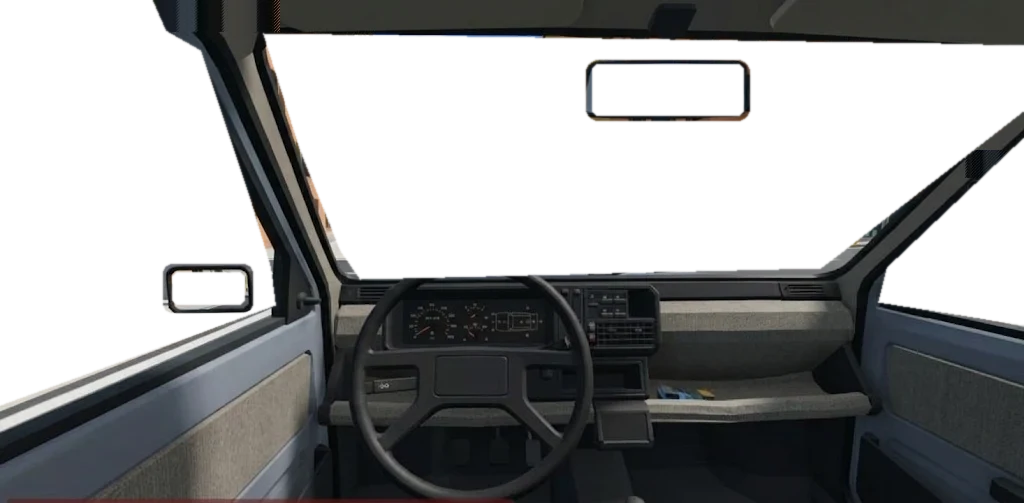
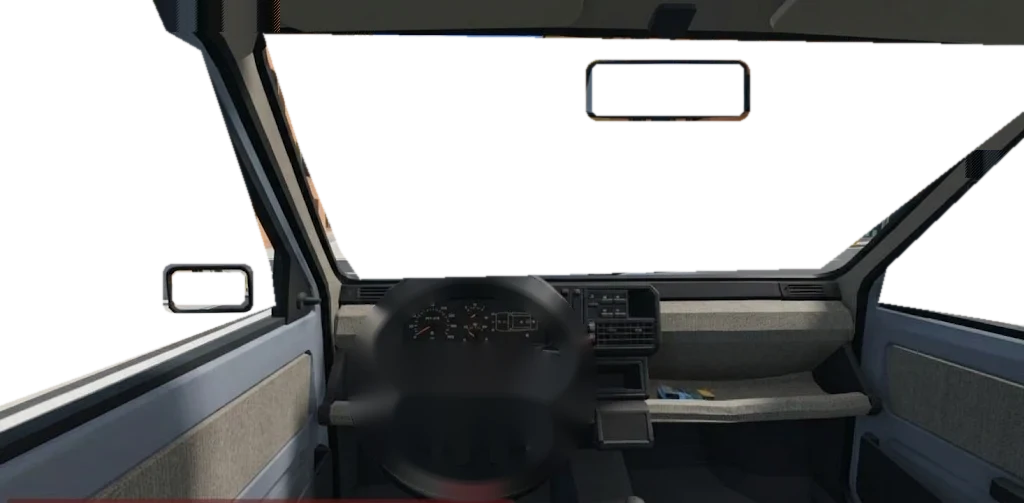
Abitacoli fotografici anche per Grand Wagoneer, taxi, Challenger e ZIL; volante ritagliato dalle immagini che gira nel suo piano con lo sterzo (tutte e 6 le auto)
Claude-Session: https://claude.ai/code/session_01W8iG7LND3boGmKpCt1qQnk

Changed region(s): [[0.3438, 0.7455, 0.5625, 0.9841], [0.3438, 0.5368, 0.5938, 0.7753]]

diff --git a/index.html b/index.html
@@ -146,7 +146,7 @@
   body.mob #navBox{top:54px!important;font-size:14px!important;padding:5px 12px!important}
   body.mob #cashHud{top:auto;bottom:8px;left:12px;transform:none;pointer-events:none;font-size:13px}body.mob #cashTag{top:96px}
   body.mob.photo #mobTop,body.mob.photo #mobL,body.mob.photo #mobR,body.mob.photo #mobW,body.mob.photo #mobP,body.mob.photo #mobT{display:none!important}
-  #ckOv{position:fixed;inset:0;pointer-events:none;z-index:1;display:none;overflow:hidden}#ckImg{position:absolute;left:0;top:0;user-select:none}
+  #ckOv{position:fixed;inset:0;pointer-events:none;z-index:1;display:none;overflow:hidden}#ckWheel{position:absolute;user-select:none;will-change:transform}#ckImg{position:absolute;left:0;top:0;user-select:none}
   #ckOv b,#ckOv i{position:absolute;transform:translate(-50%,-50%);font-style:normal;line-height:1}
   #ckSpd{color:#ffb24a;font-family:'DS-Digital','Share Tech Mono',ui-monospace,monospace;font-weight:700;text-shadow:0 0 4px rgba(255,150,40,.7);opacity:.92;letter-spacing:.02em}
   #ckGear{color:#ffb24a;font-family:'DS-Digital','Share Tech Mono',ui-monospace,monospace;font-weight:700;text-shadow:0 0 4px rgba(255,150,40,.7);opacity:.85}
@@ -224,7 +224,7 @@
 
 <button id="pauseBtn" style="position:fixed;left:110px;top:12px;z-index:3;background:rgba(0,0,0,.5);color:#fff;border:1px solid rgba(255,255,255,.25);border-radius:16px;padding:6px 12px;display:none">⏸ Pausa</button>
 <button id="carBtn" title="Cambia auto (tasto V)" style="position:fixed;left:208px;top:12px;z-index:3;background:rgba(0,0,0,.5);color:#fff;border:1px solid rgba(255,255,255,.25);border-radius:16px;padding:6px 12px;display:none">⇄ Cambia auto</button>
-<div id="steerInd"><svg viewBox="-20 -20 40 40" width="44" height="44"><circle r="16" fill="none" stroke="#fff" stroke-width="3.5"/><path d="M-15 2 L-5 2 L0 6 L5 2 L15 2 M0 6 L0 15" stroke="#fff" stroke-width="3" fill="none"/><circle cy="-16" r="2.6" fill="#ff5a3c"/></svg><b>0°</b></div><div id="ckOv"><img id="ckImg" alt=""><b id="ckSpd">0</b><b id="ckGear">N</b><i id="ckTL">◀</i><i id="ckTR">▶</i><i id="ckBeam">●</i></div><div id="cashHud"></div><div id="cashTag"></div><button id="jobBtn" title="Lavori (tasto K)" style="position:fixed;left:420px;top:12px;z-index:3;color:#fff;border-radius:16px;padding:6px 12px;display:none">💼 Lavori</button>
+<div id="steerInd"><svg viewBox="-20 -20 40 40" width="44" height="44"><circle r="16" fill="none" stroke="#fff" stroke-width="3.5"/><path d="M-15 2 L-5 2 L0 6 L5 2 L15 2 M0 6 L0 15" stroke="#fff" stroke-width="3" fill="none"/><circle cy="-16" r="2.6" fill="#ff5a3c"/></svg><b>0°</b></div><div id="ckOv"><img id="ckImg" alt=""><b id="ckSpd">0</b><b id="ckGear">N</b><i id="ckTL">◀</i><i id="ckTR">▶</i><i id="ckBeam">●</i><img id="ckWheel" alt=""></div><div id="cashHud"></div><div id="cashTag"></div><button id="jobBtn" title="Lavori (tasto K)" style="position:fixed;left:420px;top:12px;z-index:3;color:#fff;border-radius:16px;padding:6px 12px;display:none">💼 Lavori</button>
 <div id="jobOv"><div></div></div>
 <button id="radioBtn" title="Autoradio (tasto M)" style="position:fixed;left:330px;top:12px;z-index:3;color:#fff;border-radius:16px;padding:6px 12px;display:none">♪ Radio</button><div id="radioTag"></div>
 <div id="navBox" style="position:fixed;top:12px;left:50%;transform:translateX(-50%);background:rgba(10,30,60,.82);color:#fff;padding:8px 16px;border-radius:12px;font-size:17px;display:none;pointer-events:none;z-index:3"></div>
@@ -2651,8 +2651,12 @@ function applyView(){if(!pl.ck)return;pl.camInit=false;pl.ck.g.visible=view==='c
   camera.fov=view==='cockpit'?72:58;camera.updateProjectionMatrix();ckOverlay();}
 const tmpV=new THREE.Vector3(),camLook=new THREE.Vector3(),CAMS={y:0,vy:0,ax:0,ay:0};
 // abitacoli disegnati (immagini scelte da Giorgio): i vetri sono trasparenti e mostrano il mondo vero, gli specchi mostrano la vista dietro
-const CKIMG={volvo:{man:true,src:'cockpit/volvo.webp',size:[1024,572],glass:{C:[647,73,815,121],L:[143,296,240,348]},spd:[481,366],fs:9,turnL:[447,342],turnR:[515,342],beam:[481,343]},
-  utilitaria:{man:true,src:'cockpit/panda.webp',size:[1024,503],glass:{C:[592,64,743,115],L:[172,272,244,304]},spd:[519,322],fs:9,turnL:[405,305],turnR:[552,305],beam:[466,305]}};
+const CKIMG={volvo:{man:true,wheel:{src:'cockpit/volvo_w.webp',c:[475,436],a:123,b:136,box:[348,296,603,572]},src:'cockpit/volvo.webp',size:[1024,572],glass:{C:[647,73,815,121],L:[143,296,240,348]},spd:[481,366],fs:9,turnL:[447,342],turnR:[515,342],beam:[481,343]},
+  utilitaria:{man:true,wheel:{src:'cockpit/panda_w.webp',c:[472,381],a:120,b:111,box:[348,266,597,497]},src:'cockpit/panda.webp',size:[1024,503],glass:{C:[592,64,743,115],L:[172,272,244,304]},spd:[519,322],fs:9,turnL:[405,305],turnR:[552,305],beam:[466,305]},
+  wagoneer:{wheel:{src:'cockpit/jeep_w.webp',c:[462,420],a:135,b:135,box:[323,281,602,560]},src:'cockpit/jeep.webp',size:[1024,572],glass:{C:[626,83,796,118],L:[123,287,229,333]},spd:[490,361],fs:8,gear:[490,371],turnL:[466,331],turnR:[514,331],beam:[490,331]},
+  taxi:{wheel:{src:'cockpit/taxi_w.webp',c:[462,421],a:136,b:136,box:[322,281,603,562]},src:'cockpit/taxi.webp',size:[1024,572],glass:{C:[627,84,796,119],L:[121,276,223,330]},spd:[473,346],fs:8,gear:[476,357],turnL:[430,324],turnR:[515,324],beam:[500,324]},
+  hellcat:{wheel:{src:'cockpit/hellcat_w.webp',c:[518,431],a:118,b:122,box:[396,305,641,503]},src:'cockpit/hellcat.webp',size:[1024,503],glass:{C:[617,196,741,227],L:[141,313,247,361]},spd:[517,346],fs:11,gear:[517,362],turnL:[505,332],turnR:[529,332],beam:[517,332]},
+  zil:{man:true,wheel:{src:'cockpit/zil_w.webp',c:[501,385],a:127,b:122,box:[370,259,633,512]},src:'cockpit/zil.webp',size:[1024,572],glass:{L:[24,148,150,324]},spd:[463,351],fs:8,gear:[463,361],turnL:[445,322],turnR:[555,322],beam:[500,322]}};
 const CKO={on:false,cfg:null,s:1,l:0,t:0,hud:new THREE.Scene(),cam:new THREE.OrthographicCamera(0,1,1,0,-1,1),q:{}};
 function ckQuad(k,u0,u1,v0,v1){const g=new THREE.PlaneGeometry(1,1),uv=g.attributes.uv;for(let i=0;i<uv.count;i++){const u=uv.getX(i),v=uv.getY(i);uv.setXY(i,u1-(u1-u0)*u,v0+(v1-v0)*v);}const m=new THREE.Mesh(g,mirrorM);CKO.hud.add(m);CKO.q[k]=m;return m;}
 ckQuad('C',0.32,0.68,0.12,0.92);ckQuad('L',0.66,1.0,0.08,0.92);ckQuad('R',0.0,0.34,0.08,0.92);
@@ -2660,13 +2664,15 @@ function ckLayout(){const C=CKO.cfg;if(!C){camera.clearViewOffset();camera.aspec
   const W=innerWidth,H=innerHeight,[iw,ih]=C.size,s=Math.max(W/iw,H/ih),w=iw*s,h=ih*s,l=(W-w)/2,t=H-h;Object.assign(CKO,{s,l,t});
   const img=document.getElementById('ckImg');img.style.width=w+'px';img.style.height=h+'px';img.style.left=l+'px';img.style.top=t+'px';
   const at=(id,p,fs)=>{const e=document.getElementById(id);e.style.left=(l+p[0]*s)+'px';e.style.top=(t+p[1]*s)+'px';if(fs)e.style.fontSize=(fs*s)+'px';};
+  if(C.wheel){const B=C.wheel.box,wi=document.getElementById('ckWheel');wi.style.left=(l+B[0]*s)+'px';wi.style.top=(t+B[1]*s)+'px';wi.style.width=((B[2]-B[0])*s)+'px';wi.style.height=((B[3]-B[1])*s)+'px';wi.style.transformOrigin=((C.wheel.c[0]-B[0])*s)+'px '+((C.wheel.c[1]-B[1])*s)+'px';}
   at('ckSpd',C.spd,C.fs);at('ckGear',C.gear||[C.spd[0],C.spd[1]+C.fs*1.05],C.fs*0.7);at('ckTL',C.turnL,7);at('ckTR',C.turnR,7);at('ckBeam',C.beam,6);
   // la telecamera inquadra come nella foto: stesso campo visivo riferito all'immagine intera, poi ritagliato come lo schermo
   camera.aspect=w/h;camera.setViewOffset(w,h,-l,-t,W,H);camera.updateProjectionMatrix();
   CKO.cam.left=0;CKO.cam.right=W;CKO.cam.top=H;CKO.cam.bottom=0;CKO.cam.updateProjectionMatrix();
   ['C','L','R'].forEach(k=>{const q=CKO.q[k],g=C.glass[k];q.visible=!!g;if(!g)return;const x0=l+g[0]*s,x1=l+g[2]*s,y0=t+g[1]*s,y1=t+g[3]*s;q.position.set((x0+x1)/2,H-(y0+y1)/2,0);q.scale.set(x1-x0,y1-y0,1);});}
-function ckOverlay(){const C=(view==='cockpit'&&pl.P&&!PHOTO.on)?CKIMG[selKey]:null;CKO.on=!!C;CKO.cfg=C||null;const ov=document.getElementById('ckOv');ov.style.display=C?'block':'none';
-  if(C){const img=document.getElementById('ckImg');if(img.dataset.src!==C.src){img.src=C.src;img.dataset.src=C.src;}}
+function ckOverlay(){CKO.th=null;const C=(view==='cockpit'&&pl.P&&!PHOTO.on)?CKIMG[selKey]:null;CKO.on=!!C;CKO.cfg=C||null;const ov=document.getElementById('ckOv');ov.style.display=C?'block':'none';
+  if(C){const img=document.getElementById('ckImg');if(img.dataset.src!==C.src){img.src=C.src;img.dataset.src=C.src;}
+    const wi=document.getElementById('ckWheel');wi.style.display=C.wheel?'block':'none';if(C.wheel&&wi.dataset.src!==C.wheel.src){wi.src=C.wheel.src;wi.dataset.src=C.wheel.src;}}
   if(pl.mesh)pl.mesh.children.forEach(c=>{if(c===rearCam)return;if(C){if(c.visible){c.visible=false;c.userData._ckH=1;}}else if(c.userData._ckH){c.visible=true;delete c.userData._ckH;}});
   ckLayout();}
 addEventListener('resize',()=>setTimeout(ckLayout,0));
@@ -2674,6 +2680,7 @@ function camKick(v){CAMS.vy-=v*2.2;}
 function updateCamera(dt){
   const m=pl.mesh,S=pl.susp;if(pl.flip){const F=pl.flip;m.position.set(pl.x,pl.terrH+Math.abs(Math.sin(F.phi))*pl.T.W*0.45+(Math.abs(F.phi)>2?pl.T.H*0.85:0)*Math.min(1,(Math.abs(F.phi)-2)/1.1),pl.z);m.rotation.set(F.phi,pl.h,0);}else{m.position.set(pl.x,(pl.yb??pl.terrH)+S.h,pl.z);m.rotation.set(S.r+pl.slopeR,pl.h,S.p+pl.slopeP+(pl.air?Math.max(-0.12,Math.min(0.12,-(pl.vb||0)*0.012)):0));}m.updateMatrixWorld();
   pl.ck.spin.rotation.x=pl.delta*pl.P.ratio;
+  if(CKO.on&&CKO.cfg.wheel){const Wh=CKO.cfg.wheel,th=pl.delta*pl.P.ratio,c=Math.cos(th),sn=Math.sin(th),k=Wh.a/Wh.b;if(Math.abs(th-(CKO.th??99))>0.002){CKO.th=th;document.getElementById('ckWheel').style.transform='matrix('+c+','+sn/k+','+(-sn*k)+','+c+',0,0)';}}
   if(pl.ck.wipers.length){const on=WX==='rain';pl.wipT=(pl.wipT||0)+(on?dt:0);const th=on?(1-Math.cos(pl.wipT*Math.PI*1.25))/2*1.35:0;
     pl.ck.wipers.forEach(w=>{const dir=new THREE.Vector3(0,0,1).multiplyScalar(Math.cos(th)).add(w.u.clone().multiplyScalar(Math.sin(th)));w.bl.position.copy(w.piv).addScaledVector(dir,0.29);w.bl.quaternion.setFromUnitVectors(new THREE.Vector3(1,0,0),dir);w.bl.visible=on||true;});}
   {const f=new THREE.Vector3(Math.cos(pl.h),0,-Math.sin(pl.h)),pf=new THREE.Vector3(pl.clipXf,0,0),pr=new THREE.Vector3(pl.clipXr,0,0);m.localToWorld(pf);m.localToWorld(pr);

diff --git a/sw.js b/sw.js
@@ -1,6 +1,6 @@
 // Guido: service worker. Il gioco si installa come app; i file del gioco arrivano dalla rete quando c'è,
 // altrimenti dalla copia salvata, così parte anche offline. Le librerie dai CDN restano in cache.
-const V = 'guido-v23';
+const V = 'guido-v24';
 const CORE = ['./', './index.html', './manifest.webmanifest', './icons/icon-192.png', './icons/icon-512.png'];
 self.addEventListener('install', e => { self.skipWaiting(); e.waitUntil(caches.open(V).then(c => c.addAll(CORE)).catch(() => {})); });
 self.addEventListener('activate', e => { e.waitUntil(caches.keys().then(k => Promise.all(k.filter(x => x !== V).map(x => caches.delete(x)))).then(() => self.clients.claim())); });
